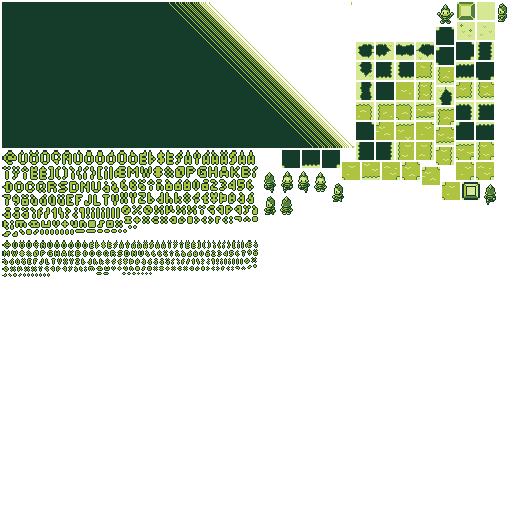
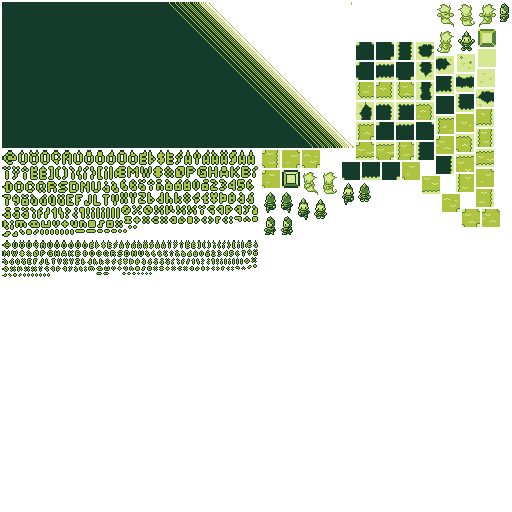
Jump graphics

Changed region(s): [[0.5, 0.0, 1.0, 0.4688]]

diff --git a/Assets/Resources/Scripts/Player.cs b/Assets/Resources/Scripts/Player.cs
@@ -53,10 +53,10 @@ public class Player : FutileFourDirectionBaseObject
         player.addAnimation(new FAnimation(PlayerState.MOVE.ToString() + Direction.UP.ToString(), new int[] { 5, 6, 5, 8 }, 150, true));
         player.addAnimation(new FAnimation(PlayerState.MOVE.ToString() + Direction.DOWN.ToString(), new int[] { 1, 2, 1, 4 }, 150, true));
 
-        player.addAnimation(new FAnimation(PlayerState.JUMP.ToString() + Direction.RIGHT.ToString(), new int[] { 13 }, 50, true));
-        player.addAnimation(new FAnimation(PlayerState.JUMP.ToString() + Direction.LEFT.ToString(), new int[] { 13 }, 50, true));
-        player.addAnimation(new FAnimation(PlayerState.JUMP.ToString() + Direction.UP.ToString(), new int[] { 13 }, 50, true));
-        player.addAnimation(new FAnimation(PlayerState.JUMP.ToString() + Direction.DOWN.ToString(), new int[] { 13 }, 50, true));
+        player.addAnimation(new FAnimation(PlayerState.JUMP.ToString() + Direction.RIGHT.ToString(), new int[] { 18,19 }, 150, false));
+        player.addAnimation(new FAnimation(PlayerState.JUMP.ToString() + Direction.LEFT.ToString(), new int[] { 18,19 }, 150, false));
+        player.addAnimation(new FAnimation(PlayerState.JUMP.ToString() + Direction.UP.ToString(), new int[] { 16,17}, 150, false));
+        player.addAnimation(new FAnimation(PlayerState.JUMP.ToString() + Direction.DOWN.ToString(), new int[] { 14, 15 }, 150, false));
         player.play(State.ToString());
         this.AddChild(player);
     }
@@ -93,7 +93,20 @@ public class Player : FutileFourDirectionBaseObject
                     }
                     xVel = 0;
                     yVel = 0;
-                    Go.to(this, .5f, new TweenConfig().floatProp("x", newX).floatProp("y", newY).setEaseType(EaseType.QuadOut).onComplete(() => { State = PlayerState.IDLE; }));
+                    float jumpTime = .5f;
+                    float jumpDisp = 10f;
+                    if (newX == this.x)
+                    {
+                        Go.to(this, jumpTime / 2f, new TweenConfig().floatProp("x", -jumpDisp, true).setEaseType(EaseType.QuadOut).setIterations(2, LoopType.PingPong));
+                        Go.to(this, jumpTime, new TweenConfig().floatProp("y", newY).setEaseType(EaseType.QuadOut).onComplete(() => { State = PlayerState.IDLE; }));
+
+                    }
+                    else
+                    {
+                        Go.to(this, jumpTime / 2f, new TweenConfig().floatProp("y", jumpDisp, true).setEaseType(EaseType.QuadOut).setIterations(2, LoopType.PingPong));
+                        Go.to(this, jumpTime, new TweenConfig().floatProp("x", newX).setEaseType(EaseType.QuadOut).onComplete(() => { State = PlayerState.IDLE; }));
+
+                    }
                     return;
                 }
                 if (C.getKey(C.LEFT_KEY))
